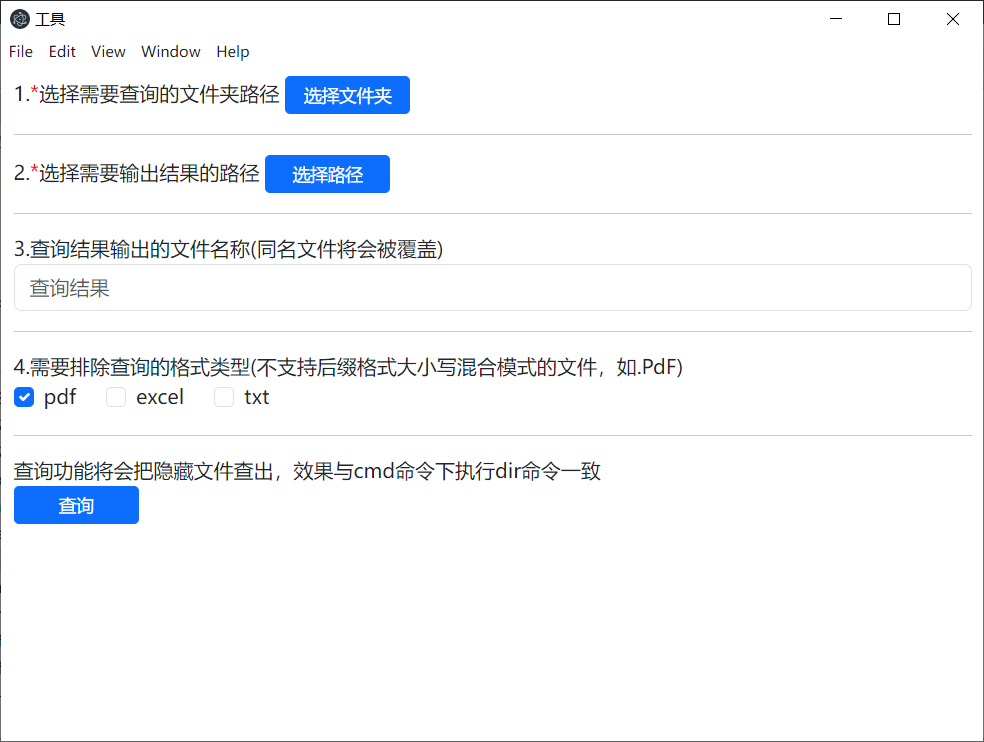
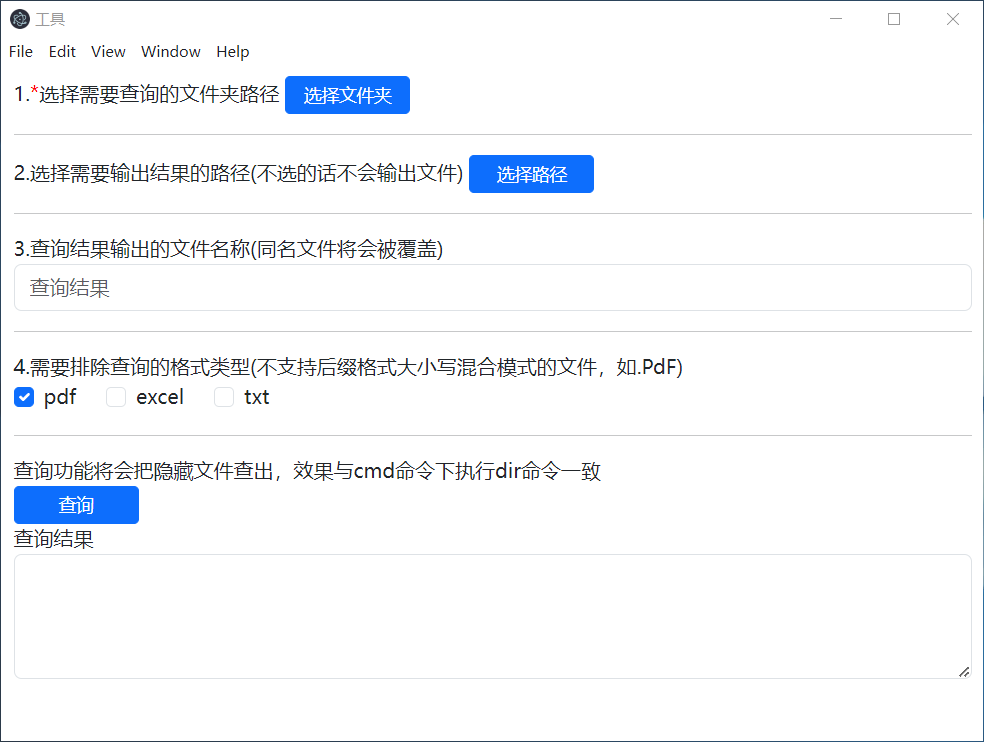
添加界面显示结果

diff --git a/search.js b/search.js
@@ -19,27 +19,32 @@ const find = (filePath,outpullFilePath,noStatistics,resfilename) => {
       fileDisplay(filePath,noStatistics);
   
       if (resstr.length) {
-        //console.log(resstr)
-        // 创建一个可以写入的流，写入到文件 output.txt 中
-        var writerStream = fs.createWriteStream(outpullFilePath+'/'+ resfilename+'.txt');
-  
-        // 使用 utf8 编码写入数据
-        writerStream.write(resstr, 'UTF8');
-  
-        // 标记文件末尾
-        writerStream.end();
-  
-        // 处理流事件 --> finish、error
-        writerStream.on('finish', function () {
-          //alert("写入完成。")
-          console.log("写入完成。");
-          resolve(1);
-        });
-  
-        writerStream.on('error', function (err) {
-          console.log("错误", err.stack);
-          reject(0);
-        });
+        if(outpullFilePath){
+            // 创建一个可以写入的流，写入到文件 output.txt 中
+            var writerStream = fs.createWriteStream(outpullFilePath+'/'+ resfilename+'.txt');
+    
+            // 使用 utf8 编码写入数据
+            writerStream.write(resstr, 'UTF8');
+    
+            // 标记文件末尾
+            writerStream.end();
+    
+            // 处理流事件 --> finish、error
+            writerStream.on('finish', function () {
+            //alert("写入完成。")
+            console.log("写入完成。");
+            resolve(resstr);
+            });
+    
+            writerStream.on('error', function (err) {
+            console.log("错误", err.stack);
+            reject(0);
+            });
+        }else{
+            resolve(resstr);
+        }
+
+
       } else {
         console.log('执行完毕,没有匹配数据');
         resolve(0);

diff --git a/index.html b/index.html
@@ -22,7 +22,7 @@
 		</div>
 		<hr>
 		<div>
-			2.<span class="my-required">选择需要输出结果的路径</span>
+			2.<span >选择需要输出结果的路径(不选的话不会输出文件)</span>
 			<button id="fileOutputPath" type="button" class="btn btn-primary btn-sm my-btn">选择路径</button>
 			<br>
 			<span id="fileOutputPathInfo"> </span>
@@ -37,18 +37,6 @@
 		<div>
 			4.需要排除查询的格式类型(不支持后缀格式大小写混合模式的文件，如.PdF)
 			<div class="checkGroup" id="checkGroup">
-				<!-- <div class="form-check my-form-check">
-					<input class="form-check-input" type="checkbox" value="pdf" id="flexCheckDefault" checked>
-					<label class="form-check-label" for="flexCheckDefault">
-						pdf
-					</label>
-				</div>
-				<div class="form-check my-form-check">
-					<input class="form-check-input" type="checkbox" value="excel" id="flexCheckChecked">
-					<label class="form-check-label" for="flexCheckChecked">
-						excel
-					</label>
-				</div>				 -->
 			</div>
 
 		</div>
@@ -57,6 +45,13 @@
 		<br>
 		<button type="button" class="btn btn-primary btn-sm my-btn" id="search">查询</button>
 		<span id="checkmsg" style="display: none;color: red;">请检查必填选项</span>
+		<div id="resTextareaWrap">
+			<span>查询结果</span>
+			<div class="form-floating">
+				<textarea class="form-control" placeholder="查询结果" id="resTextarea" style="height: 100px" readonly></textarea>
+				<!-- <label for="floatingTextarea2">查询结果</label> -->
+			</div>			
+		</div>
 
 	</main>
 

diff --git a/renderer.js b/renderer.js
@@ -10,6 +10,7 @@ const checkGroup = document.getElementById('checkGroup')
 
 const search = document.getElementById('search')
 const checkmsg = document.getElementById('checkmsg')
+const resTextarea = document.getElementById('resTextarea')
 
 
 const createCheckBox = () => {
@@ -27,7 +28,7 @@ const createCheckBox = () => {
 	checkGroup.innerHTML = textdom
 }
 const searchfn= ()=>{
-	if(!queryFilepathInfo.innerText||!fileOutputPathInfo.innerText){
+	if(!queryFilepathInfo.innerText){
 		checkmsg.style.display = ''
 	}else{
 		checkmsg.style.display = 'none'
@@ -43,10 +44,26 @@ const searchfn= ()=>{
 	}
 }
 window.electronAPI.notice((_event, value) => {
-	if(value==1){
-		alert('查询完成，已生成结果至目标地址')
+	if(value){
+		resTextarea.value = value
+		if(fileOutputPathInfo.innerText){
+			setTimeout(() => {
+				alert('查询完成，已生成结果至目标地址')
+			}, 0);
+			
+		}else{
+			setTimeout(() => {
+				alert('查询完成')
+			}, 0);
+			
+		}
+		
 	}else if(value==0){
-		alert('查询完成，但没有匹配数据')
+		resTextarea.value = value
+		setTimeout(() => {
+			alert('查询完成，但没有匹配数据')
+		}, 0);
+		
 	}else{
 		alert('查询失败')
 	}
